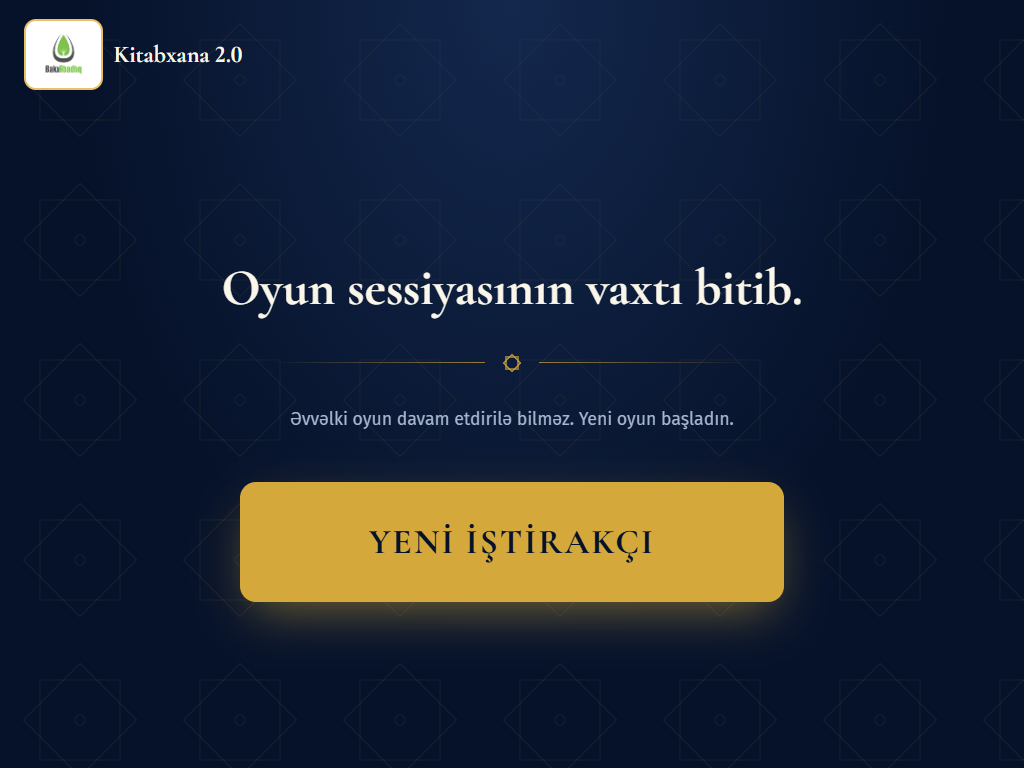
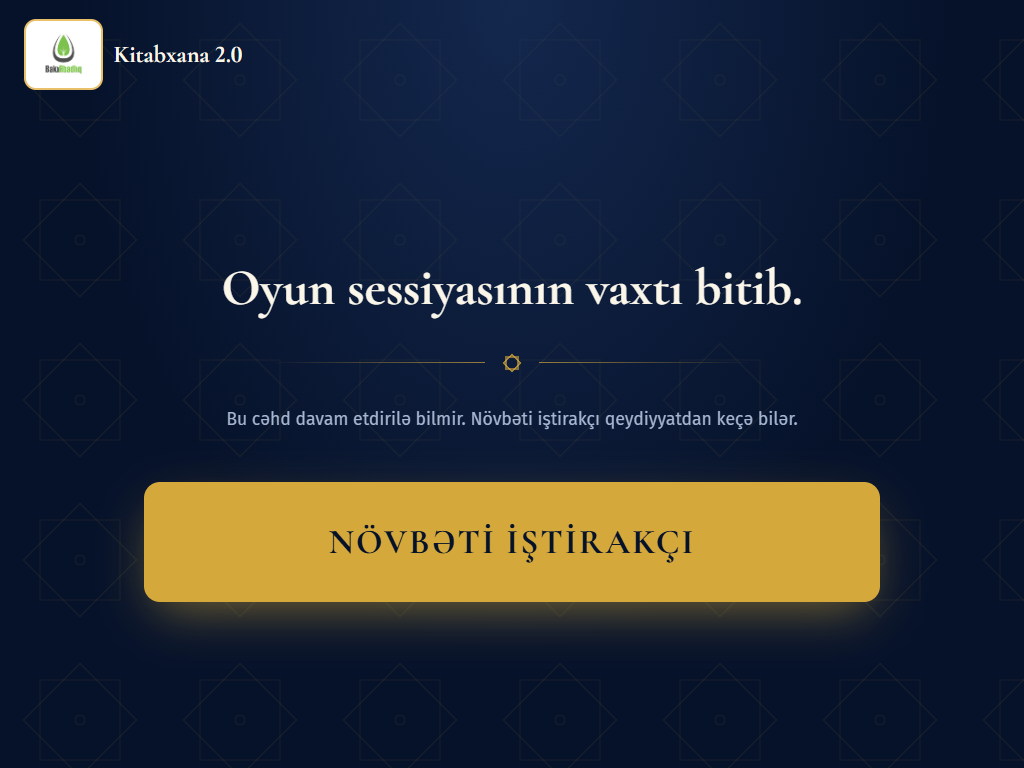
fix: use "next participant" terminology
- Result, leaderboard and session-expired buttons: "NÖVBƏTİ İŞTİRAKÇI".
- Home unfinished-quiz option: "Növbəti iştirakçı üçün başlat".
- Session-expired text: "Bu cəhd davam etdirilə bilmir. Növbəti iştirakçı
  qeydiyyatdan keçə bilər."
- Session-expired button widened (34rem -> 46rem, no wrap) so the longer
  label stays on one line at 1920x1080.
- GamePage comment follows the current button name.
- Refresh the affected screenshots.

diff --git a/frontend/src/pages/SessionExpired.tsx b/frontend/src/pages/SessionExpired.tsx
@@ -22,16 +22,16 @@ export default function SessionExpired() {
           </h1>
           <GoldRule className="my-8 w-full max-w-[30rem]" />
           <p className="max-w-[36rem] text-[clamp(1.1rem,1.6vw,1.7rem)] leading-relaxed text-mist">
-            Əvvəlki oyun davam etdirilə bilməz. Yeni oyun başladın.
+            Bu cəhd davam etdirilə bilmir. Növbəti iştirakçı qeydiyyatdan keçə bilər.
           </p>
           <button
             type="button"
             onClick={() => startTransition(() => { reset(); navigate('/register') })}
             disabled={starting}
             aria-busy={starting}
-            className="tap mt-12 flex min-h-[7.5rem] w-full max-w-[34rem] items-center justify-center rounded-2xl bg-gold px-10 font-display text-[clamp(2rem,3.4vw,3.4rem)] font-bold tracking-[0.06em] text-navy-900 shadow-[0_18px_50px_-12px_rgba(212,168,59,0.55)] disabled:bg-gold/70"
+            className="tap mt-12 flex min-h-[7.5rem] w-full max-w-[46rem] items-center justify-center whitespace-nowrap rounded-2xl bg-gold px-10 font-display text-[clamp(2rem,3.4vw,3.4rem)] font-bold tracking-[0.06em] text-navy-900 shadow-[0_18px_50px_-12px_rgba(212,168,59,0.55)] disabled:bg-gold/70"
           >
-            {starting ? 'Oyun hazırlanır' : 'YENİ İŞTİRAKÇI'}
+            {starting ? 'Oyun hazırlanır' : 'NÖVBƏTİ İŞTİRAKÇI'}
           </button>
           {error && (
             <p role="alert" className="mt-6 rounded-xl border border-bad/50 bg-bad/10 px-5 py-3 text-[clamp(1rem,1.3vw,1.3rem)]">

diff --git a/frontend/src/pages/GameResult.tsx b/frontend/src/pages/GameResult.tsx
@@ -150,7 +150,7 @@ export default function GameResult() {
         </div>
 
         <nav aria-label="Nəticə seçimləri" className="mx-auto mt-4 grid w-full max-w-[76rem] grid-cols-1 gap-3 sm:grid-cols-3">
-          <button type="button" onClick={() => go('/register', true)} disabled={navigating} className="tap paper-cta flex min-h-[4.5rem] items-center justify-center rounded-full px-5 font-display text-[clamp(1.1rem,1.8vw,1.8rem)] font-bold tracking-[0.03em] disabled:opacity-60">YENİ İŞTİRAKÇI</button>
+          <button type="button" onClick={() => go('/register', true)} disabled={navigating} className="tap paper-cta flex min-h-[4.5rem] items-center justify-center rounded-full px-5 font-display text-[clamp(1.1rem,1.8vw,1.8rem)] font-bold tracking-[0.03em] disabled:opacity-60">NÖVBƏTİ İŞTİRAKÇI</button>
           <button type="button" onClick={() => campaignId && go(`/leaderboard/${campaignId}`, false)} disabled={navigating || campaignId === null} className="tap paper-ghost flex min-h-[4.5rem] items-center justify-center rounded-full px-5 font-display text-[clamp(1.05rem,1.65vw,1.65rem)] font-bold tracking-[0.02em] disabled:opacity-60">TAM LİDER CƏDVƏLİ</button>
           <button type="button" onClick={() => go('/', true)} disabled={navigating} className="tap paper-ghost flex min-h-[4.5rem] items-center justify-center rounded-full px-5 font-display text-[clamp(1.1rem,1.8vw,1.8rem)] font-semibold disabled:opacity-60">ANA SƏHİFƏ</button>
         </nav>

diff --git a/frontend/src/pages/LeaderboardPage.tsx b/frontend/src/pages/LeaderboardPage.tsx
@@ -127,7 +127,7 @@ export default function LeaderboardPage() {
 
         <nav aria-label="Lider cədvəli seçimləri" className="mx-auto mt-3 grid w-full max-w-[54rem] shrink-0 grid-cols-2 gap-4">
           <button type="button" onClick={() => go('/', false)} disabled={navigating} className="tap paper-ghost flex min-h-[4.5rem] items-center justify-center rounded-full px-6 font-display text-[clamp(1.1rem,1.8vw,1.8rem)] font-semibold disabled:opacity-60">ANA SƏHİFƏ</button>
-          <button type="button" onClick={() => go('/register', true)} disabled={navigating} className="tap paper-cta flex min-h-[4.5rem] items-center justify-center rounded-full px-6 font-display text-[clamp(1.1rem,1.8vw,1.8rem)] font-bold tracking-[0.04em] disabled:opacity-60">YENİ İŞTİRAKÇI</button>
+          <button type="button" onClick={() => go('/register', true)} disabled={navigating} className="tap paper-cta flex min-h-[4.5rem] items-center justify-center rounded-full px-6 font-display text-[clamp(1.1rem,1.8vw,1.8rem)] font-bold tracking-[0.04em] disabled:opacity-60">NÖVBƏTİ İŞTİRAKÇI</button>
         </nav>
       </div>
     </main>

diff --git a/frontend/src/pages/GamePage.tsx b/frontend/src/pages/GamePage.tsx
@@ -13,7 +13,7 @@ import { ANSWER_OPTIONS, optionText, type AnswerOption, type AnswerResult } from
 const TRANSITION_MS = 1100
 const TIMEOUT_RETRY_MS = 2000
 // Answer taps are ignored this long after a question appears, so a stray second tap from the
-// previous screen (e.g. a double tap on "Yenidən oyna") cannot answer the first question.
+// previous screen (e.g. a double tap on "NÖVBƏTİ İŞTİRAKÇI") cannot answer the first question.
 // Frontend-only: the server deadline and the countdown are unaffected.
 const QUESTION_INPUT_GUARD_MS = 400
 

diff --git a/frontend/src/pages/HomePage.tsx b/frontend/src/pages/HomePage.tsx
@@ -203,7 +203,7 @@ export default function HomePage() {
                     LİDER CƏDVƏLİ
                   </button>
                   <button type="button" onClick={goRegister} className="tap paper-ghost min-h-[4.5rem] rounded-full px-6 text-[clamp(0.9rem,1.15vw,1.15rem)] font-medium">
-                    Yeni iştirakçı üçün başlat
+                    Növbəti iştirakçı üçün başlat
                   </button>
                 </div>
               </>
